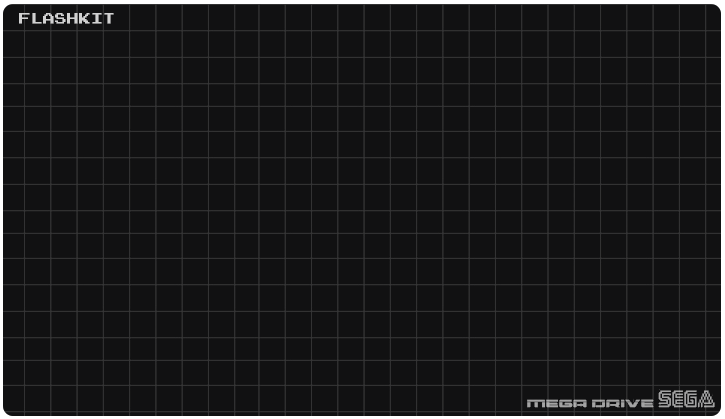
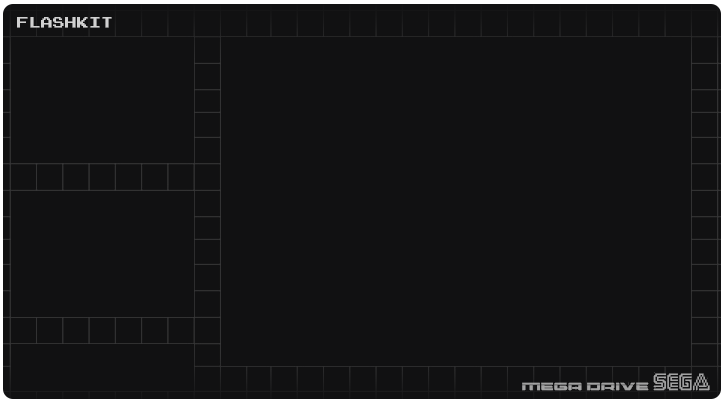
New background

diff --git a/Form1.Designer.cs b/Form1.Designer.cs
@@ -100,13 +100,12 @@ namespace flashkit_md
             // progressBar1
             // 
             this.progressBar1.ForeColor = System.Drawing.Color.FromArgb(((int)(((byte)(192)))), ((int)(((byte)(0)))), ((int)(((byte)(0)))));
-            this.progressBar1.Location = new System.Drawing.Point(12, 388);
+            this.progressBar1.Location = new System.Drawing.Point(224, 371);
             this.progressBar1.Margin = new System.Windows.Forms.Padding(4, 3, 4, 3);
             this.progressBar1.Name = "progressBar1";
-            this.progressBar1.Size = new System.Drawing.Size(505, 21);
+            this.progressBar1.Size = new System.Drawing.Size(291, 16);
             this.progressBar1.Style = System.Windows.Forms.ProgressBarStyle.Continuous;
             this.progressBar1.TabIndex = 3;
-            this.progressBar1.Value = 0;
             // 
             // consoleBox
             // 
@@ -114,13 +113,14 @@ namespace flashkit_md
             this.consoleBox.BorderStyle = System.Windows.Forms.BorderStyle.None;
             this.consoleBox.Font = new System.Drawing.Font("Consolas", 9.75F, System.Drawing.FontStyle.Regular, System.Drawing.GraphicsUnit.Point, ((byte)(204)));
             this.consoleBox.ForeColor = System.Drawing.SystemColors.InactiveCaption;
-            this.consoleBox.Location = new System.Drawing.Point(238, 33);
+            this.consoleBox.Location = new System.Drawing.Point(224, 40);
             this.consoleBox.Margin = new System.Windows.Forms.Padding(4, 3, 4, 3);
             this.consoleBox.Multiline = true;
             this.consoleBox.Name = "consoleBox";
             this.consoleBox.ReadOnly = true;
             this.consoleBox.Size = new System.Drawing.Size(463, 324);
             this.consoleBox.TabIndex = 4;
+            this.consoleBox.Text = "Flashkit-MD v1.0\r\n---\r\nProgram by Krikzz\r\nGUI by Flosk\r\n----------\r\n\r\n ";
             this.consoleBox.TextAlign = System.Windows.Forms.HorizontalAlignment.Center;
             // 
             // button1
@@ -130,7 +130,7 @@ namespace flashkit_md
             this.button1.FlatAppearance.BorderSize = 0;
             this.button1.FlatStyle = System.Windows.Forms.FlatStyle.Flat;
             this.button1.ForeColor = System.Drawing.SystemColors.ControlLightLight;
-            this.button1.Location = new System.Drawing.Point(656, 7);
+            this.button1.Location = new System.Drawing.Point(669, 9);
             this.button1.Name = "button1";
             this.button1.Size = new System.Drawing.Size(46, 21);
             this.button1.TabIndex = 5;
@@ -146,18 +146,18 @@ namespace flashkit_md
             this.btn_wr_rom.DialogResult = System.Windows.Forms.DialogResult.Cancel;
             this.btn_wr_rom.FlatAppearance.BorderSize = 0;
             this.btn_wr_rom.FlatStyle = System.Windows.Forms.FlatStyle.Flat;
-            this.btn_wr_rom.Font = new System.Drawing.Font("Meiryo UI", 11.25F, System.Drawing.FontStyle.Regular, System.Drawing.GraphicsUnit.Point, ((byte)(0)));
+            this.btn_wr_rom.Font = new System.Drawing.Font("Consolas", 11F);
             this.btn_wr_rom.ForeColor = System.Drawing.Color.LightSteelBlue;
             this.btn_wr_rom.HoverImage = global::flashkit_md.Properties.Resources.but2;
             this.btn_wr_rom.Image = global::flashkit_md.Properties.Resources.rom_in;
             this.btn_wr_rom.ImageAlign = System.Drawing.ContentAlignment.MiddleLeft;
-            this.btn_wr_rom.Location = new System.Drawing.Point(11, 96);
+            this.btn_wr_rom.Location = new System.Drawing.Point(10, 104);
             this.btn_wr_rom.Margin = new System.Windows.Forms.Padding(4, 3, 4, 3);
             this.btn_wr_rom.Name = "btn_wr_rom";
-            this.btn_wr_rom.Padding = new System.Windows.Forms.Padding(16, 0, 0, 0);
+            this.btn_wr_rom.Padding = new System.Windows.Forms.Padding(10, 0, 0, 0);
             this.btn_wr_rom.PlainImage = null;
             this.btn_wr_rom.PressedImage = global::flashkit_md.Properties.Resources.but3;
-            this.btn_wr_rom.Size = new System.Drawing.Size(217, 56);
+            this.btn_wr_rom.Size = new System.Drawing.Size(180, 52);
             this.btn_wr_rom.TabIndex = 1;
             this.btn_wr_rom.Text = "Write ROM";
             this.btn_wr_rom.UseVisualStyleBackColor = true;
@@ -169,20 +169,20 @@ namespace flashkit_md
             this.btn_rd_ram.BackgroundImageLayout = System.Windows.Forms.ImageLayout.Stretch;
             this.btn_rd_ram.FlatAppearance.BorderSize = 0;
             this.btn_rd_ram.FlatStyle = System.Windows.Forms.FlatStyle.Flat;
-            this.btn_rd_ram.Font = new System.Drawing.Font("Meiryo UI", 11.25F, System.Drawing.FontStyle.Regular, System.Drawing.GraphicsUnit.Point, ((byte)(0)));
+            this.btn_rd_ram.Font = new System.Drawing.Font("Consolas", 11F);
             this.btn_rd_ram.ForeColor = System.Drawing.Color.LightSteelBlue;
             this.btn_rd_ram.HoverImage = global::flashkit_md.Properties.Resources.but2;
             this.btn_rd_ram.Image = global::flashkit_md.Properties.Resources.sram_out;
             this.btn_rd_ram.ImageAlign = System.Drawing.ContentAlignment.MiddleLeft;
-            this.btn_rd_ram.Location = new System.Drawing.Point(12, 164);
+            this.btn_rd_ram.Location = new System.Drawing.Point(10, 198);
             this.btn_rd_ram.Margin = new System.Windows.Forms.Padding(4, 3, 4, 3);
             this.btn_rd_ram.Name = "btn_rd_ram";
-            this.btn_rd_ram.Padding = new System.Windows.Forms.Padding(16, 0, 0, 0);
+            this.btn_rd_ram.Padding = new System.Windows.Forms.Padding(10, 0, 0, 0);
             this.btn_rd_ram.PlainImage = null;
             this.btn_rd_ram.PressedImage = global::flashkit_md.Properties.Resources.but3;
-            this.btn_rd_ram.Size = new System.Drawing.Size(216, 56);
+            this.btn_rd_ram.Size = new System.Drawing.Size(179, 52);
             this.btn_rd_ram.TabIndex = 2;
-            this.btn_rd_ram.Text = "Read RAM";
+            this.btn_rd_ram.Text = "Dump SRAM";
             this.btn_rd_ram.UseVisualStyleBackColor = true;
             this.btn_rd_ram.Click += new System.EventHandler(this.btn_rd_ram_Click);
             // 
@@ -192,18 +192,18 @@ namespace flashkit_md
             this.btn_rd_rom.BackgroundImageLayout = System.Windows.Forms.ImageLayout.Stretch;
             this.btn_rd_rom.FlatAppearance.BorderSize = 0;
             this.btn_rd_rom.FlatStyle = System.Windows.Forms.FlatStyle.Flat;
-            this.btn_rd_rom.Font = new System.Drawing.Font("Meiryo UI", 11.25F, System.Drawing.FontStyle.Regular, System.Drawing.GraphicsUnit.Point, ((byte)(0)));
+            this.btn_rd_rom.Font = new System.Drawing.Font("Consolas", 11F);
             this.btn_rd_rom.ForeColor = System.Drawing.Color.LightSteelBlue;
             this.btn_rd_rom.HoverImage = global::flashkit_md.Properties.Resources.but2;
             this.btn_rd_rom.Image = global::flashkit_md.Properties.Resources.rom_out;
             this.btn_rd_rom.ImageAlign = System.Drawing.ContentAlignment.MiddleLeft;
-            this.btn_rd_rom.Location = new System.Drawing.Point(11, 35);
+            this.btn_rd_rom.Location = new System.Drawing.Point(10, 44);
             this.btn_rd_rom.Margin = new System.Windows.Forms.Padding(4, 3, 4, 3);
             this.btn_rd_rom.Name = "btn_rd_rom";
-            this.btn_rd_rom.Padding = new System.Windows.Forms.Padding(16, 0, 0, 0);
+            this.btn_rd_rom.Padding = new System.Windows.Forms.Padding(10, 0, 0, 0);
             this.btn_rd_rom.PlainImage = global::flashkit_md.Properties.Resources.but1;
             this.btn_rd_rom.PressedImage = global::flashkit_md.Properties.Resources.but3;
-            this.btn_rd_rom.Size = new System.Drawing.Size(217, 56);
+            this.btn_rd_rom.Size = new System.Drawing.Size(180, 52);
             this.btn_rd_rom.TabIndex = 0;
             this.btn_rd_rom.Text = "Read ROM";
             this.btn_rd_rom.UseVisualStyleBackColor = true;
@@ -215,18 +215,18 @@ namespace flashkit_md
             this.btn_wr_ram.BackgroundImageLayout = System.Windows.Forms.ImageLayout.Stretch;
             this.btn_wr_ram.FlatAppearance.BorderSize = 0;
             this.btn_wr_ram.FlatStyle = System.Windows.Forms.FlatStyle.Flat;
-            this.btn_wr_ram.Font = new System.Drawing.Font("Meiryo UI", 11.25F, System.Drawing.FontStyle.Regular, System.Drawing.GraphicsUnit.Point, ((byte)(0)));
+            this.btn_wr_ram.Font = new System.Drawing.Font("Consolas", 11F);
             this.btn_wr_ram.ForeColor = System.Drawing.Color.LightSteelBlue;
             this.btn_wr_ram.HoverImage = global::flashkit_md.Properties.Resources.but2;
             this.btn_wr_ram.Image = global::flashkit_md.Properties.Resources.sram_in;
             this.btn_wr_ram.ImageAlign = System.Drawing.ContentAlignment.MiddleLeft;
-            this.btn_wr_ram.Location = new System.Drawing.Point(12, 224);
+            this.btn_wr_ram.Location = new System.Drawing.Point(10, 258);
             this.btn_wr_ram.Margin = new System.Windows.Forms.Padding(4, 3, 4, 3);
             this.btn_wr_ram.Name = "btn_wr_ram";
-            this.btn_wr_ram.Padding = new System.Windows.Forms.Padding(16, 0, 0, 0);
+            this.btn_wr_ram.Padding = new System.Windows.Forms.Padding(10, 0, 0, 0);
             this.btn_wr_ram.PlainImage = null;
             this.btn_wr_ram.PressedImage = global::flashkit_md.Properties.Resources.but3;
-            this.btn_wr_ram.Size = new System.Drawing.Size(217, 56);
+            this.btn_wr_ram.Size = new System.Drawing.Size(180, 52);
             this.btn_wr_ram.TabIndex = 3;
             this.btn_wr_ram.Text = "Write RAM";
             this.btn_wr_ram.UseVisualStyleBackColor = true;
@@ -239,18 +239,18 @@ namespace flashkit_md
             this.btn_check.BackgroundImageLayout = System.Windows.Forms.ImageLayout.Stretch;
             this.btn_check.FlatAppearance.BorderSize = 0;
             this.btn_check.FlatStyle = System.Windows.Forms.FlatStyle.Flat;
-            this.btn_check.Font = new System.Drawing.Font("Meiryo UI", 11.25F, System.Drawing.FontStyle.Regular, System.Drawing.GraphicsUnit.Point, ((byte)(0)));
+            this.btn_check.Font = new System.Drawing.Font("Consolas", 11F);
             this.btn_check.ForeColor = System.Drawing.Color.LightSteelBlue;
             this.btn_check.HoverImage = global::flashkit_md.Properties.Resources.but2;
             this.btn_check.Image = global::flashkit_md.Properties.Resources.cart;
             this.btn_check.ImageAlign = System.Drawing.ContentAlignment.MiddleLeft;
-            this.btn_check.Location = new System.Drawing.Point(12, 295);
+            this.btn_check.Location = new System.Drawing.Point(10, 343);
             this.btn_check.Margin = new System.Windows.Forms.Padding(4, 3, 4, 3);
             this.btn_check.Name = "btn_check";
-            this.btn_check.Padding = new System.Windows.Forms.Padding(16, 0, 0, 0);
+            this.btn_check.Padding = new System.Windows.Forms.Padding(10, 0, 0, 0);
             this.btn_check.PlainImage = null;
             this.btn_check.PressedImage = global::flashkit_md.Properties.Resources.but3;
-            this.btn_check.Size = new System.Drawing.Size(216, 56);
+            this.btn_check.Size = new System.Drawing.Size(179, 48);
             this.btn_check.TabIndex = 4;
             this.btn_check.Text = "Cart info";
             this.btn_check.UseVisualStyleBackColor = false;
@@ -263,7 +263,7 @@ namespace flashkit_md
             this.BackColor = System.Drawing.SystemColors.ActiveBorder;
             this.BackgroundImage = global::flashkit_md.Properties.Resources.bkg;
             this.CancelButton = this.button1;
-            this.ClientSize = new System.Drawing.Size(725, 419);
+            this.ClientSize = new System.Drawing.Size(725, 405);
             this.Controls.Add(this.button1);
             this.Controls.Add(this.btn_wr_rom);
             this.Controls.Add(this.btn_rd_ram);
